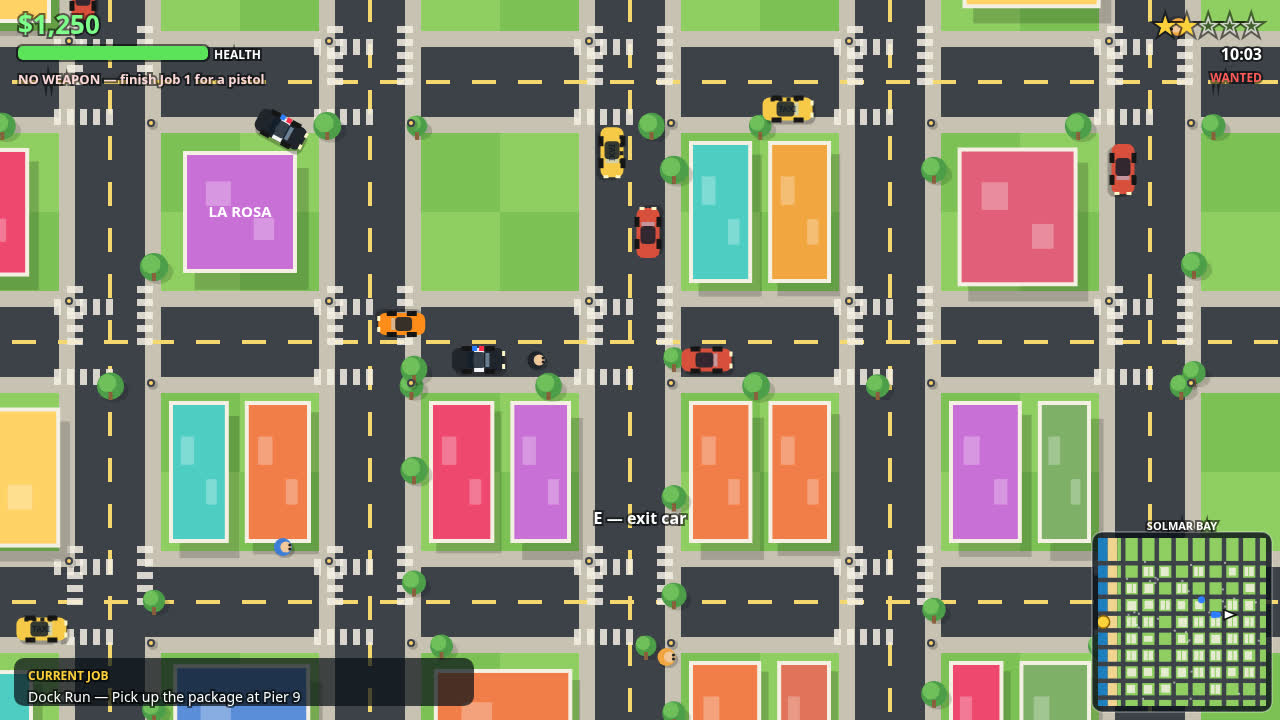
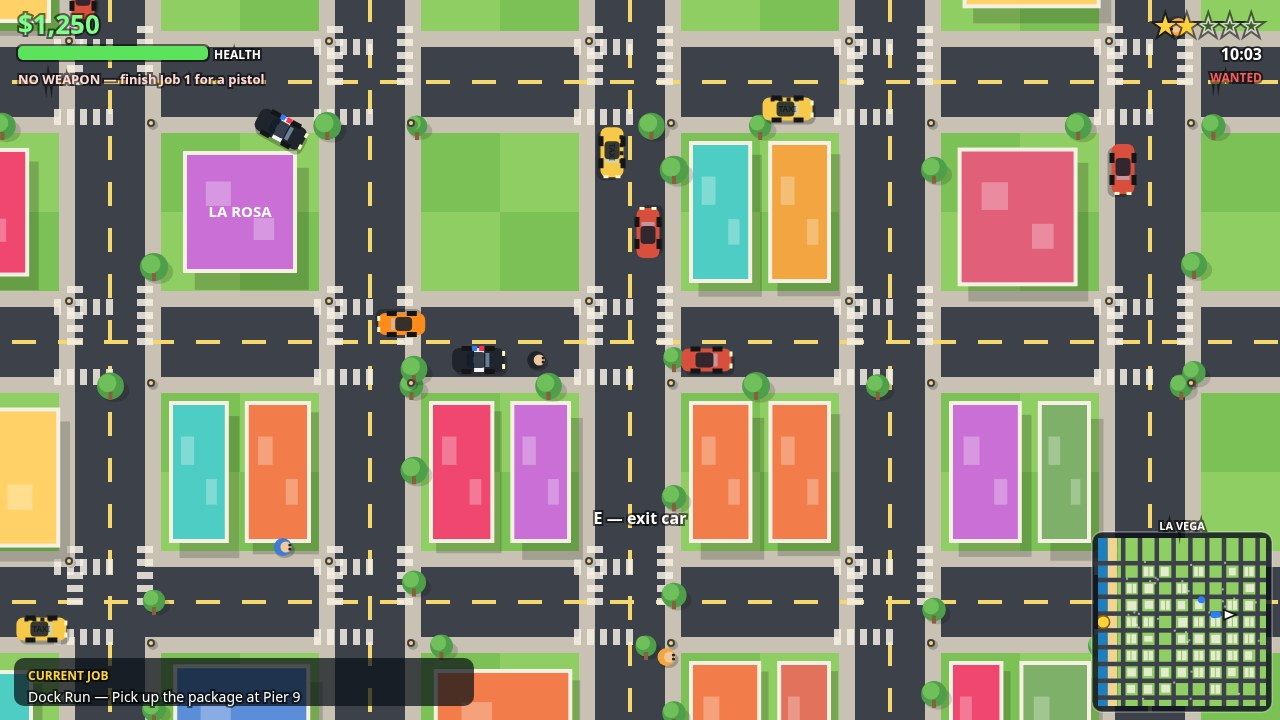
Rename Solmar Heat / Solmar Bay to La Vega (title, city, police, places)
La Vega is unique in the GTA 6 top-200 leaderboard (0 hits); SOLMAR HEAT
was an exact duplicate of rank #93 and Solmar Bay appeared in 9 titles.
Game title La Vega, city La Vega, police La Vega PD (was Solmar PD),
places La Vega General / La Vega Beach / Petro Vega, mission The La Vega
Score. Jax Vega and La Rosa unchanged. Dossier rebuilt (byte-identical
across runs), 4 screenshots retaken (1280x720, 0 console errors).

diff --git a/game/src/render.js b/game/src/render.js
@@ -1,4 +1,4 @@
-// SOLMAR HEAT — canvas renderer. Warm sun-baked palette, soft shadows, a live
+// LA VEGA — canvas renderer. Warm sun-baked palette, soft shadows, a live
 // minimap, and full HUD. Pure drawing: reads state, never mutates it.
 
 const SCREEN_TITLE = 'title';
@@ -483,7 +483,7 @@ function createRenderer(canvas) {
     ctx.stroke();
     ctx.restore();
     ctx.restore();
-    text('SOLMAR BAY', x + size / 2, y - 8, 11, '#fff', 'center');
+    text('LA VEGA', x + size / 2, y - 8, 11, '#fff', 'center');
   }
 
   function drawHUD(state) {
@@ -606,8 +606,8 @@ function createRenderer(canvas) {
     ctx.arc(viewW - 180, 110, 70, 0, TAU);
     ctx.fill();
 
-    text('SOLMAR HEAT', viewW / 2, viewH * 0.3, 72, '#ffd23c', 'center');
-    text('An open-world crime story in Solmar Bay', viewW / 2, viewH * 0.3 + 44, 22, '#fff', 'center', false);
+    text('LA VEGA', viewW / 2, viewH * 0.3, 72, '#ffd23c', 'center');
+    text('An open-world crime story in La Vega', viewW / 2, viewH * 0.3 + 44, 22, '#fff', 'center', false);
     text('Jax Vega  •  La Rosa  •  Five jobs  •  One very hot city', viewW / 2, viewH * 0.3 + 74, 15, '#ffe9a3', 'center', false);
 
     const items = hasSave ? ['New Game', 'Continue', 'How to play'] : ['New Game', 'How to play'];
@@ -633,15 +633,15 @@ function createRenderer(canvas) {
     ctx.fillRect(0, 0, viewW, viewH);
     text('HOW TO PLAY', viewW / 2, 120, 40, '#ffd23c', 'center');
     const lines = [
-      'You are Jax Vega, a driver fresh off the ferry in Solmar Bay.',
+      'You are Jax Vega, a driver fresh off the ferry in La Vega.',
       'La Rosa runs the club on Marlin Row — she has five jobs for you.',
       '',
       'On foot: WASD to move, SHIFT to run, SPACE to punch, F to shoot.',
       'Near a parked car: press E to get in. That is stealing. Cops notice.',
       'In a car: W/S to drive and brake, A/D to steer. Hard turns leave skid marks.',
       '',
-      'Stars mean the Solmar PD wants you. Lose them by hiding and laying low.',
-      'Busted or wasted: you wake up at Solmar General, lighter in the wallet.',
+      'Stars mean the La Vega PD wants you. Lose them by hiding and laying low.',
+      'Busted or wasted: you wake up at La Vega General, lighter in the wallet.',
       'Finish all five jobs to own the city. Your progress auto-saves.',
       '',
       'Press Enter or click to go back.',

diff --git a/game/src/missions.js b/game/src/missions.js
@@ -1,4 +1,4 @@
-// The story of SOLMAR HEAT. Jax Vega, a driver fresh off the ferry, works for
+// The story of LA VEGA. Jax Vega, a driver fresh off the ferry, works for
 // La Rosa, the fixer who runs the club on Marlin Row. Five jobs, all original.
 
 const MISSIONS = [
@@ -12,7 +12,7 @@ const MISSIONS = [
       { type: 'steal', text: 'Steal a parked car (press E near one)', marker: null },
       { type: 'deliver', text: "Drive it to Manny's Garage", marker: PLACES.garage, needCar: true },
     ],
-    onComplete: 'Nice wheels. La Rosa slips you a pistol and $300. Welcome to Solmar Bay.',
+    onComplete: 'Nice wheels. La Rosa slips you a pistol and $300. Welcome to La Vega.',
   },
   {
     id: 2,
@@ -51,18 +51,18 @@ const MISSIONS = [
   },
   {
     id: 5,
-    name: 'The Solmar Score',
+    name: 'The La Vega Score',
     giver: 'La Rosa',
     intro: "La Rosa: 'One last run, Jax. Five drops across the whole city before the clock runs out. Drive like the sun is chasing you.'",
     reward: 1200,
     steps: [
       { type: 'checkpoint', text: 'Checkpoint 1/5 — Marina Gate', marker: { x: 520, y: 520 }, time: 150 },
       { type: 'checkpoint', text: 'Checkpoint 2/5 — Palm Court Park', marker: { x: 1040, y: 780 }, time: 150 },
-      { type: 'checkpoint', text: 'Checkpoint 3/5 — Solmar General', marker: { x: 2080, y: 520 }, time: 150 },
+      { type: 'checkpoint', text: 'Checkpoint 3/5 — La Vega General', marker: { x: 2080, y: 520 }, time: 150 },
       { type: 'checkpoint', text: 'Checkpoint 4/5 — South Docks', marker: { x: 520, y: 2340 }, time: 150 },
       { type: 'checkpoint', text: 'Final drop — La Rosa\'s Club', marker: PLACES.club, time: 150 },
     ],
-    onComplete: 'THE SOLMAR SCORE! $1,200. You own this city, Jax Vega.',
+    onComplete: 'THE LA VEGA SCORE! $1,200. You own this city, Jax Vega.',
   },
 ];
 
@@ -74,7 +74,7 @@ function currentStep(mission) {
 
 function objectiveText(state) {
   if (state.mission.index < 0) {
-    if (state.missionAvailable >= MISSIONS.length) return 'All jobs done — Solmar Bay is yours. Free roam!';
+    if (state.missionAvailable >= MISSIONS.length) return 'All jobs done — La Vega is yours. Free roam!';
     const next = MISSIONS[state.missionAvailable];
     return `Next job: ${next.name} — visit La Rosa at the club (press E)`;
   }

diff --git a/game/src/config.js b/game/src/config.js
@@ -1,7 +1,7 @@
-// SOLMAR HEAT — configuration. All original: a sun-baked coastal city, Solmar Bay.
+// LA VEGA — configuration. All original: a sun-baked coastal city, La Vega.
 // No external assets, no network requests, plain canvas 2D.
 const STEP = 1 / 60;
-const SAVE_KEY = 'solmar-heat-save-v1';
+const SAVE_KEY = 'la-vega-save-v1';
 
 const WORLD = {
   size: 2600,
@@ -34,16 +34,16 @@ const PALETTE = {
   pierDark: '#8a5f3c',
 };
 
-// Key places in Solmar Bay (all original names).
+// Key places in La Vega (all original names).
 const PLACES = {
   club: { x: 1560, y: 1040, name: "La Rosa's Club" },
   garage: { x: 780, y: 1560, name: "Manny's Garage" },
   warehouse: { x: 520, y: 2080, name: 'Old Cannery Warehouse' },
-  hospital: { x: 2080, y: 520, name: 'Solmar General' },
+  hospital: { x: 2080, y: 520, name: 'La Vega General' },
   pierPickup: { x: 82, y: 1300, name: 'Pier 9 Drop' },
   dock: { x: 235, y: 1300, name: 'The Docks' },
   park: { x: 1040, y: 780, name: 'Palm Court Park' },
-  beach: { x: 230, y: 780, name: 'Solmar Beach' },
+  beach: { x: 230, y: 780, name: 'La Vega Beach' },
 };
 
 // Car models: length, width, accel, top speed, turn rate, base colours.

diff --git a/game/src/world.js b/game/src/world.js
@@ -1,4 +1,4 @@
-// SOLMAR HEAT — world: city generation, physics, traffic, pedestrians, police,
+// LA VEGA — world: city generation, physics, traffic, pedestrians, police,
 // wanted system, combat, missions. Deterministic: every random choice comes from
 // the seeded rng, so ?shot= scenes replay identically.
 
@@ -366,7 +366,7 @@ function createWorld(rng, seed) {
     state.cops = [];
     for (const c of state.cars) if (c.driver === 'police') c.driver = 'none';
     state.respawn = { active: true, timer: 2.5, kind: 'BUSTED' };
-    say('BUSTED! The Solmar PD took $150 in fines.', 3);
+    say('BUSTED! The La Vega PD took $150 in fines.', 3);
     sound('busted');
   }
 
@@ -1017,7 +1017,7 @@ function createWorld(rng, seed) {
 
     if (step.type === 'checkpoint' || def.id === 5) {
       state.mission.timer -= dt;
-      if (state.mission.timer <= 0) { failMission('Out of time on The Solmar Score.'); return; }
+      if (state.mission.timer <= 0) { failMission('Out of time on The La Vega Score.'); return; }
     }
     if (def.id === 3) {
       state.mission.timer -= dt;

diff --git a/game/src/main.js b/game/src/main.js
@@ -1,4 +1,4 @@
-// SOLMAR HEAT — boot and the one loop. Fixed 1/60 s steps, title / play /
+// LA VEGA — boot and the one loop. Fixed 1/60 s steps, title / play /
 // paused screens, save/load, procedural audio, and the ?shot= scene stager.
 //
 // ?seed=N fixes the world. ?shot=cover|chase|mission|city (with &seed=N) stages
@@ -60,7 +60,7 @@ function runGame() {
     accumulator = 0;
     screen = SCREEN_PLAY;
     audio.unlock();
-    announce('Playing Solmar Heat. Visit La Rosa at the club to start a job.');
+    announce('Playing La Vega. Visit La Rosa at the club to start a job.');
   }
 
   function menuAction() {
@@ -132,7 +132,7 @@ function runGame() {
       selected = 0;
       howTo = false;
       saved = hasSave();
-      announce('Solmar Heat. Press Enter or click to start.');
+      announce('La Vega. Press Enter or click to start.');
     }
   });
 
@@ -220,7 +220,7 @@ function runGame() {
     }
   });
 
-  announce('Solmar Heat. Press Enter or click to start.');
+  announce('La Vega. Press Enter or click to start.');
   requestAnimationFrame(frame);
 }
 

diff --git a/game/index.html b/game/index.html
@@ -3,7 +3,7 @@
 <head>
 <meta charset="utf-8">
 <meta name="viewport" content="width=device-width, initial-scale=1">
-<title>Solmar Heat — Open-World Crime in Solmar Bay</title>
+<title>La Vega — Open-World Crime in La Vega</title>
 <style>
   html, body { margin: 0; height: 100%; overflow: hidden; background: #f2a541; }
   #game { position: fixed; inset: 0; width: 100%; height: 100%; display: block; touch-action: none; }
@@ -12,7 +12,7 @@
 </style>
 </head>
 <body>
-<canvas id="game" aria-label="Solmar Heat: an open-world crime game in Solmar Bay. Drive, steal cars, lose the cops, and run jobs for La Rosa."></canvas>
+<canvas id="game" aria-label="La Vega: an open-world crime game in La Vega. Drive, steal cars, lose the cops, and run jobs for La Rosa."></canvas>
 <p id="status" role="status" aria-live="polite"></p>
 <script src="./src/config.js"></script>
 <script src="./src/random.js"></script>

diff --git a/serve.ts b/serve.ts
@@ -1,4 +1,4 @@
-// SOLMAR HEAT — tiny static dev server (Node 22, standard library only).
+// LA VEGA — tiny static dev server (Node 22, standard library only).
 // Serves this directory on http://localhost:8080 so the game can be played and
 // screenshotted locally. No dependencies, no network requests beyond localhost.
 import { createServer } from 'node:http';
@@ -43,5 +43,5 @@ const server = createServer((req, res) => {
 });
 
 server.listen(port, () => {
-  console.log(`SOLMAR HEAT dev server: http://localhost:${port}  (game at / and /game/)`);
+  console.log(`LA VEGA dev server: http://localhost:${port}  (game at / and /game/)`);
 });

diff --git a/main.ts b/main.ts
@@ -1,4 +1,4 @@
-// SOLMAR HEAT — make.fun gta6-01 entry (Node 22, standard library only).
+// LA VEGA — make.fun gta6-01 entry (Node 22, standard library only).
 // The game is this directory's game/ folder: plain static files a desktop browser
 // loads offline (game/index.html and its plain scripts, no library, no network
 // request). This program hands it in: it copies game/ and screenshots/ from

diff --git a/README.md b/README.md
@@ -1,9 +1,9 @@
-# SOLMAR HEAT
+# LA VEGA
 
-An open-world crime game in the sun-baked coastal city of **Solmar Bay**.
+An open-world crime game in the sun-baked coastal city of **La Vega**.
 You are **Jax Vega**, a driver fresh off the ferry. **La Rosa**, the fixer who
 runs the club on Marlin Row, has five jobs for you — steal cars, run packages,
-shake the cops, settle a score with the Vultures, and pull off the Solmar
+shake the cops, settle a score with the Vultures, and pull off the La Vega
 Score across the whole city.
 
 Everything is original: the city, the characters, the cars, the story, the
@@ -42,9 +42,9 @@ menu. **Continue** on the title screen picks up where you left off.
 
 ## The city
 
-Solmar Bay is a 2600×2600 open world: a grid of streets with traffic and
-pedestrians, colourful blocks, Palm Court Park, Solmar Beach and the sea,
-Pier 9 and the docks, Manny's Garage, the old cannery warehouse and Solmar
+La Vega is a 2600×2600 open world: a grid of streets with traffic and
+pedestrians, colourful blocks, Palm Court Park, La Vega Beach and the sea,
+Pier 9 and the docks, Manny's Garage, the old cannery warehouse and La Vega
 General hospital. A live minimap tracks you, the police and your job marker.
 
 ## Wanted
@@ -52,7 +52,7 @@ General hospital. A live minimap tracks you, the police and your job marker.
 Stealing cars, shooting and hitting pedestrians raise your wanted level
 (0–5 stars). Police cruisers chase and ram you; foot cops chase you down
 on the street. Lay low and stay out of sight and the heat cools off. Get
-busted or wasted and you wake up at Solmar General, lighter in the wallet.
+busted or wasted and you wake up at La Vega General, lighter in the wallet.
 
 ## The five jobs
 
@@ -63,7 +63,7 @@ busted or wasted and you wake up at Solmar General, lighter in the wallet.
 3. **Shake the Tail** — lose a two-star wanted level. Reward: $400.
 4. **Warehouse Payback** — deal with four Vultures at the old cannery.
    Reward: $700.
-5. **The Solmar Score** — five checkpoints across the whole city against
+5. **The La Vega Score** — five checkpoints across the whole city against
    the clock. Reward: $1,200.
 
 ## Screenshots
